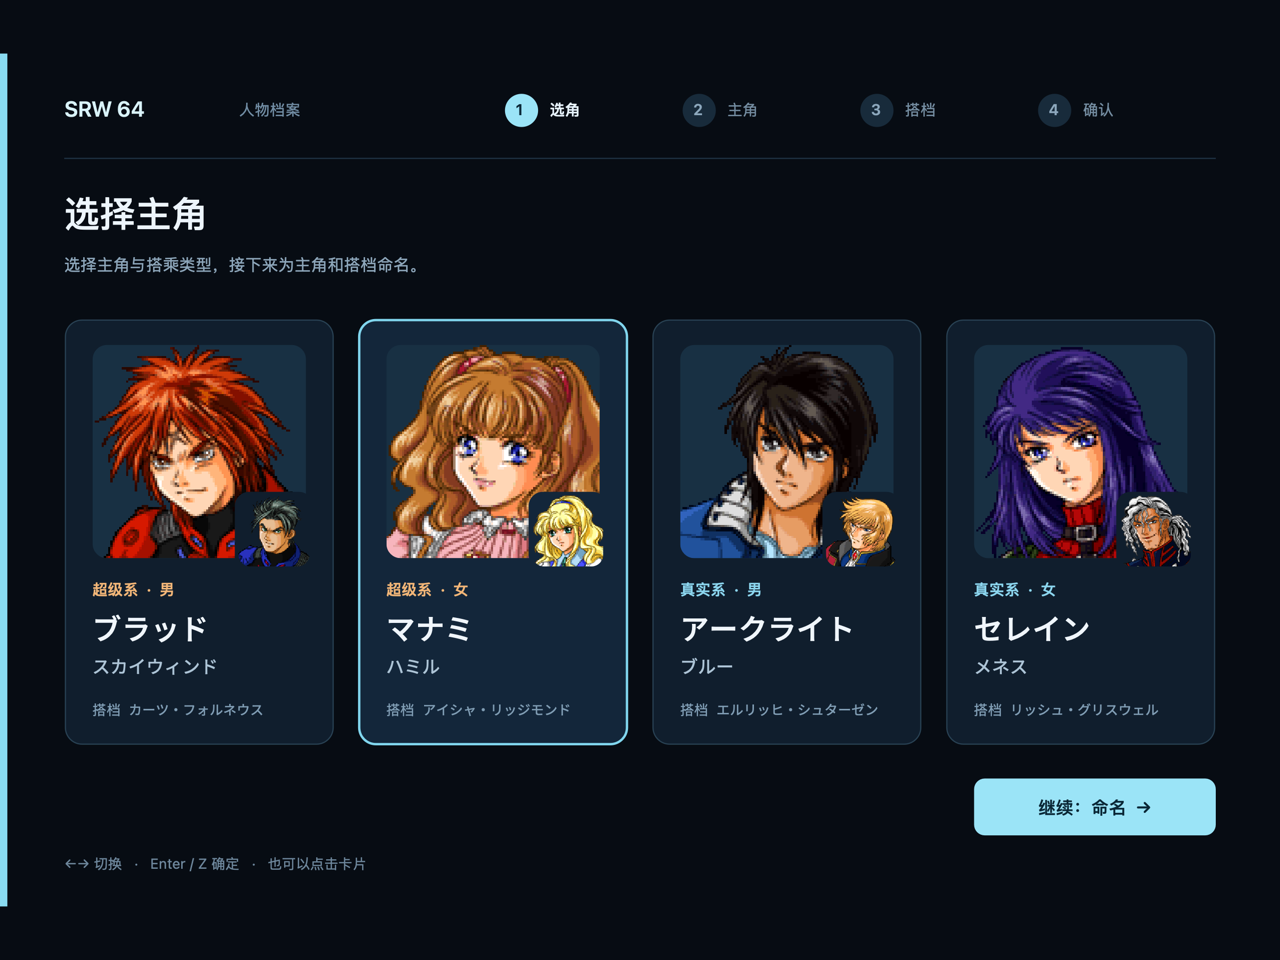
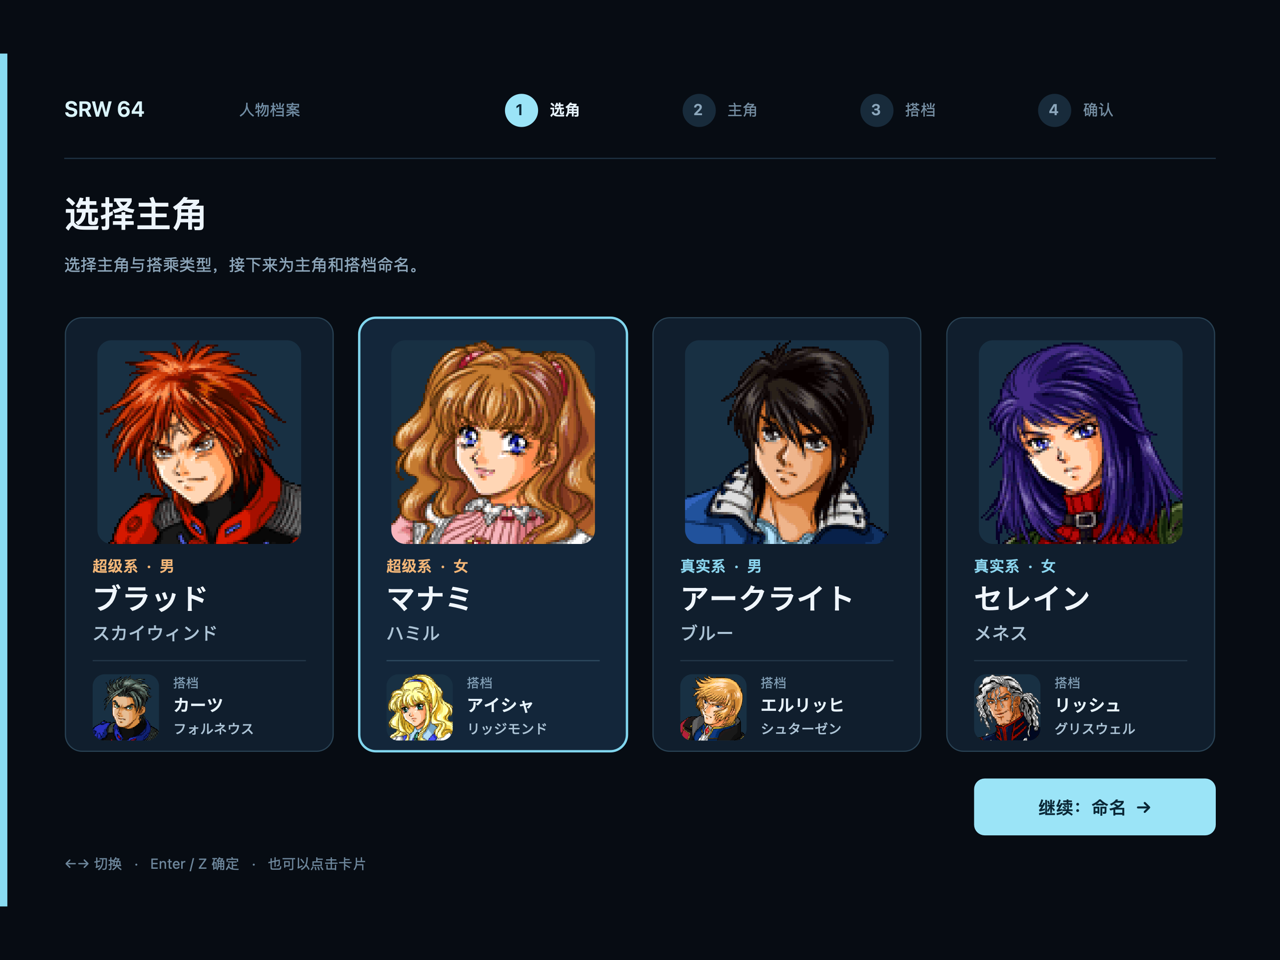
name-entry: give the partner its own row on the protagonist cards
The partner's small portrait sat on the corner of the protagonist's and
covered part of it. Each card now shows the protagonist's portrait on its
own, then type, gender and name, and below a divider a partner row with a
56-point portrait and the partner's first and family names. The cards grow
from 360 to 368 points of the 720-point page. The README and doc
screenshots show the new layout.

diff --git a/src/host/macos/native_name_entry_macos.mm b/src/host/macos/native_name_entry_macos.mm
@@ -262,7 +262,7 @@ void portrait_in(NSImage* image,NSRect rect,CGFloat radius,bool smooth) {
         inputs[f].frame=[page place:NSMakeRect(478,264+110*f,528,39)];
         inputs[f].font=[NSFont systemFontOfSize:26*s weight:NSFontWeightMedium];
     }
-    for(unsigned route=0;route<4;++route)cards[route].frame=[page place:NSMakeRect(54+route*248,224,228,360)];
+    for(unsigned route=0;route<4;++route)cards[route].frame=[page place:NSMakeRect(54+route*248,222,228,368)];
     bool review=request.person==srw64::names::Review;
     cancel.frame=[page place:NSMakeRect(review?54:462,612,184,48)];
     reset.frame=[page place:NSMakeRect(660,612,146,48)];
@@ -330,25 +330,28 @@ void portrait_in(NSImage* image,NSRect rect,CGFloat radius,bool smooth) {
 }
 - (void)drawCard:(unsigned)route bounds:(NSRect)bounds {
     srw64::localization::Scope language(srw64::localization::snapshot());
-    const CGFloat s=bounds.size.height/360;const bool active=route==choice;
+    // Design size 228 x 368: the protagonist above, the partner in its own row
+    // below a divider, so neither portrait covers the other.
+    const CGFloat s=bounds.size.height/368;const bool active=route==choice;
     [NSGraphicsContext saveGraphicsState];
     NSAffineTransform* transform=[NSAffineTransform transform];[transform scaleBy:s];[transform concat];
-    const NSRect card=NSMakeRect(1,1,226,358);
+    const NSRect card=NSMakeRect(1,1,226,366);
     box(card,active?0x13263A:0x101E2D,14);stroke_box(card,active?0x81D6EE:0x294254,14,active?2:1);
     const bool smooth=image_mode==1;
+    const auto& names=request.choices[route].names;
     if(route*2+1<choicePortraits.count) {
-        box(NSMakeRect(24,22,180,180),0x183043,12);portrait_in(choicePortraits[route*2],NSMakeRect(24,22,180,180),12,smooth);
-        box(NSMakeRect(144,146,66,66),active?0x13263A:0x101E2D,12);
-        portrait_in(choicePortraits[route*2+1],NSMakeRect(147,149,60,60),10,smooth);
+        box(NSMakeRect(28,20,172,172),0x183043,12);portrait_in(choicePortraits[route*2],NSMakeRect(28,20,172,172),12,smooth);
+        box(NSMakeRect(24,302,56,56),0x183043,10);portrait_in(choicePortraits[route*2+1],NSMakeRect(24,302,56,56),10,smooth);
     }
     const bool super=route<2, male=route%2==0;
     draw([NSString stringWithFormat:@"%@  ·  %@",label(super?"select_super":"select_real"),label(male?"select_male":"select_female")],
-         NSMakeRect(24,220,190,20),13,super?0xF2B678:0x8CD6EF,YES);
-    const auto& names=request.choices[route].names;
-    draw(string(names[0][0]),NSMakeRect(24,246,190,34),26,0xF0F6FC,YES);
-    draw(string(names[0][1]),NSMakeRect(24,284,190,24),16,0xADC4D6);
-    draw([NSString stringWithFormat:@"%@  %@",label("name_step_partner"),string(names[1][0]+u"・"+names[1][1])],
-         NSMakeRect(24,322,190,20),12,0x809DB4);
+         NSMakeRect(24,202,190,18),13,super?0xF2B678:0x8CD6EF,YES);
+    draw(string(names[0][0]),NSMakeRect(24,222,190,34),26,0xF0F6FC,YES);
+    draw(string(names[0][1]),NSMakeRect(24,258,190,22),16,0xADC4D6);
+    box(NSMakeRect(24,290,180,1),active?0x2E4A60:0x243849);
+    draw(label("name_step_partner"),NSMakeRect(92,302,116,15),11,0x809DB4);
+    draw(string(names[1][0]),NSMakeRect(92,318,116,21),15,0xE7F3FC,YES);
+    draw(string(names[1][1]),NSMakeRect(92,340,116,18),12,0xADC4D6);
     [NSGraphicsContext restoreGraphicsState];
 }
 - (void)focus:(unsigned)index {

diff --git a/docs/native/native-name-entry.md b/docs/native/native-name-entry.md
@@ -6,7 +6,7 @@
 
 重新启动 `scripts/Play SRW64 Native.command`，选择新游戏、跳过公共序章后先出现主角选择页，确定后进入姓名页面。选择、主角、搭档、确认四步采用同一套页头；支持 `ja` 和 `zh-Hans` UI 文案。页面在 Original 和 HD 模式下均可用，人物头像按模式选取原图或已登记的 HD 图。
 
-- **主角选择**：四张卡片按原版顺序并排——ブラッド（超级系·男）、マナミ（超级系·女）、アークライト（真实系·男）、セレイン（真实系·女），每张显示主角头像、搭档小头像、搭乘类型与性别、两人的默认姓名。←→（↑↓）切换，Enter／Z／空格确定；鼠标点击卡片高亮，再点一次或双击即确定，也可以按“继续：命名”。切换时播放原版的光标音，确定时播放原版确认音。原版这一页没有返回，这一页也没有。
+- **主角选择**：四张卡片按原版顺序并排——ブラッド（超级系·男）、マナミ（超级系·女）、アークライト（真实系·男）、セレイン（真实系·女），每张上方是主角头像、搭乘类型与性别和默认姓名，分隔线下单独一行是搭档头像与姓名，两张头像互不遮挡。←→（↑↓）切换，Enter／Z／空格确定；鼠标点击卡片高亮，再点一次或双击即确定，也可以按“继续：命名”。切换时播放原版的光标音，确定时播放原版确认音。原版这一页没有返回，这一页也没有。
 - 默认值预填并选中，可以直接键入或粘贴；点击字段或 Tab / Shift-Tab 切换，Enter 下一项，最后一项提交。底部“继续”也可以一次校验并提交三个字段。
 - “恢复默认”恢复当前人物打开页面时的三个值。
 - 双人确认页显示两人的名字、姓氏和昵称；“修改姓名”返回主角页，“开始故事”沿原版入口进入剧情。
